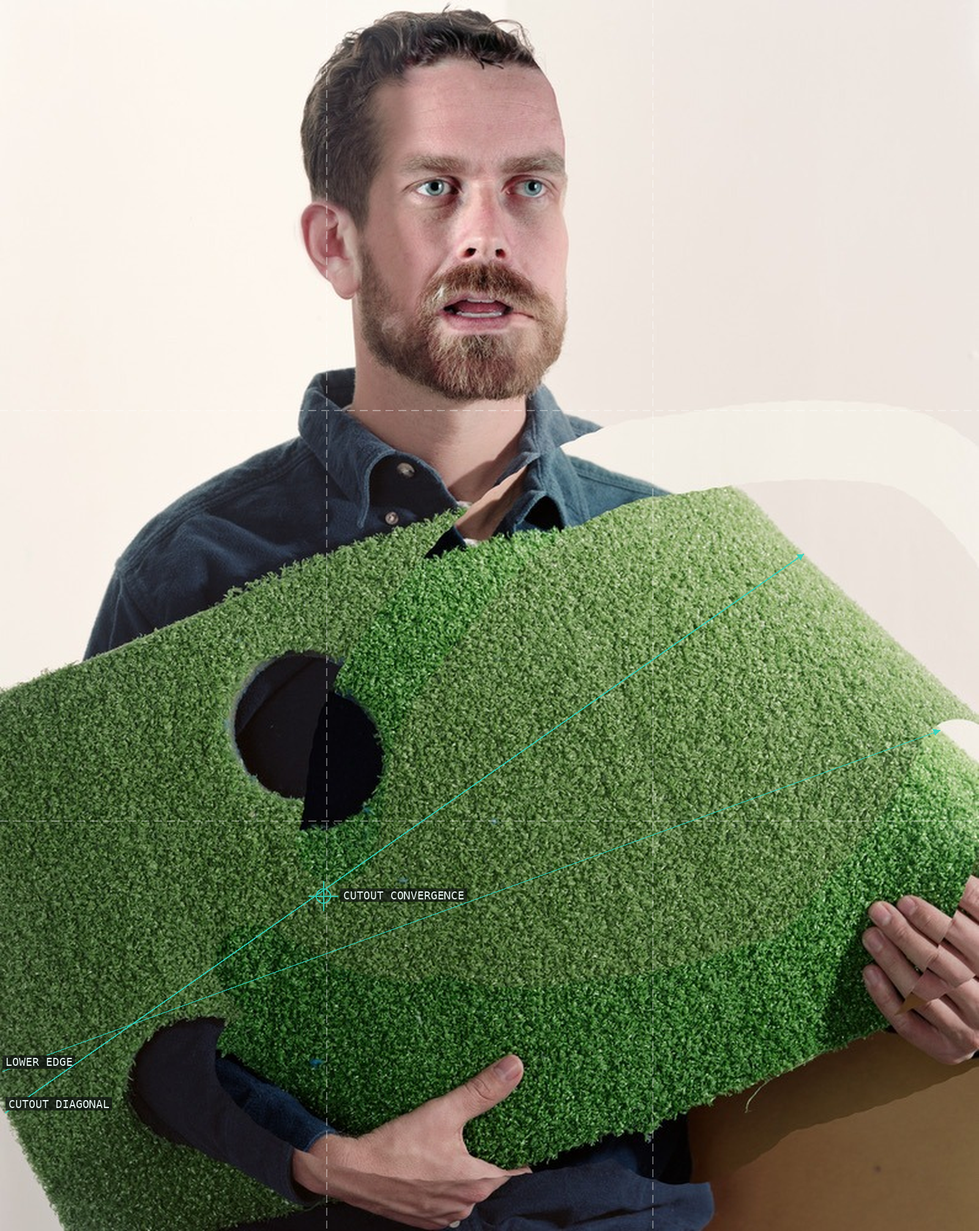
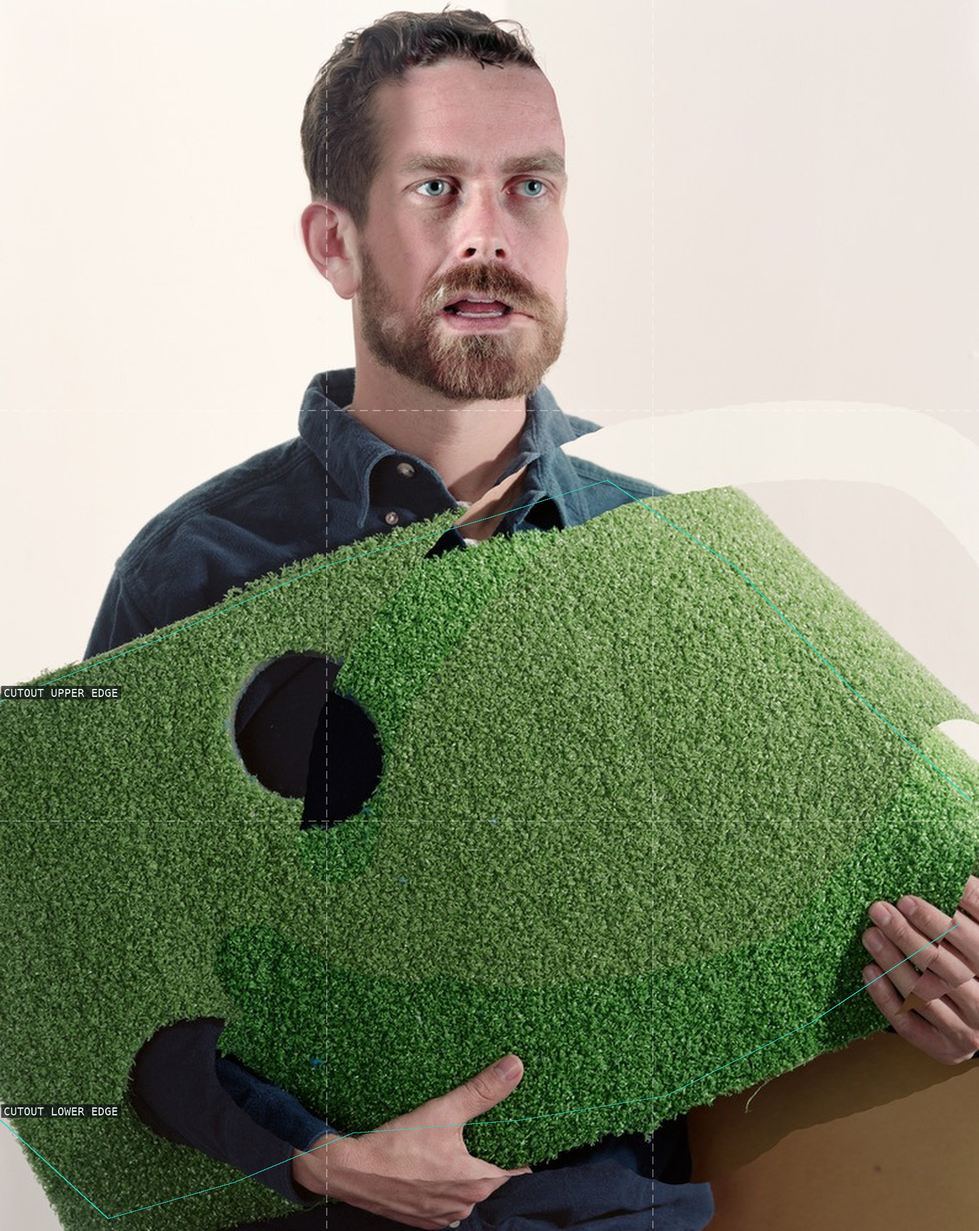
resolve critique: lucas-blalock

Changed region(s): [[0.0, 0.832, 0.125, 0.9245], [0.3125, 0.7087, 0.5, 0.7396], [0.0, 0.5547, 0.125, 0.5855]]

diff --git a/content/lucas-blalock/critique.md b/content/lucas-blalock/critique.md
@@ -1,4 +1,4 @@
-verdict: revise
+verdict: resolved
 
 ## Critique round — 2026-07-26
 
@@ -12,3 +12,10 @@ verdict: revise
 
 - All ten proofs were visually inspected. The remaining labels trace visible, intelligible features at the stated scale, and each paired analysis/spec scores 100 with the deterministic scorer.
 - The chapter makes no camera-setting claim. Every selected copyrighted image has a reachable gallery record/display file and a concise four-factor, per-image fair-use rationale with credit and source link; no source-integrity issue found.
+
+## Builder resolution — 2026-07-26
+
+1. **04-the-house-guest:** Re-ran analysis, render, visual inspection, and scoring. The anchor remains at the visible curled form on the right, but its label now accurately reads `CURLED TABLETOP FORM`; the chapter names that same right-hand form rather than implying it is the central plywood figure. Score: 100.
+2. **09-the-guitar-player:** Re-ran analysis, render, visual inspection, and scoring. Removed the unsupported `CUTOUT CONVERGENCE` marker and the two divergent leading-line claims. The overlay now traces the cutout's visible upper and lower contours; the caption and prose no longer claim convergence. Score: 100.
+
+**Prior critique rounds re-verified:** 2026-07-26 (the only prior round). Both required fixes above hold in the current proofs and byte-identical rendered chapter. `scripts/check.sh` passed.
